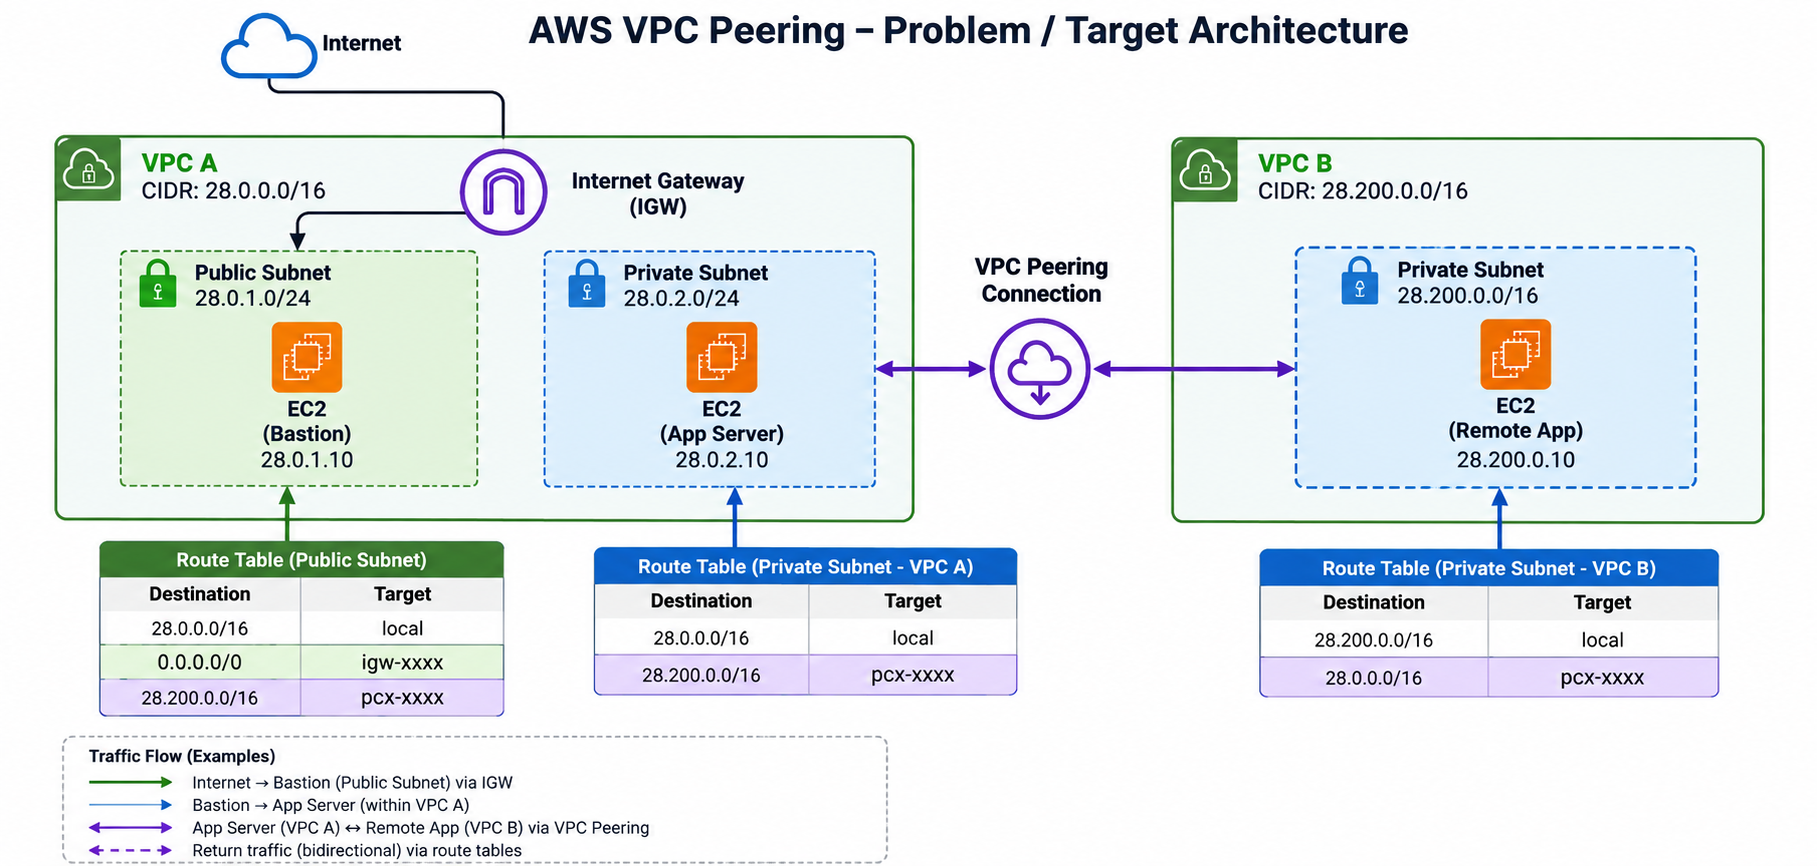
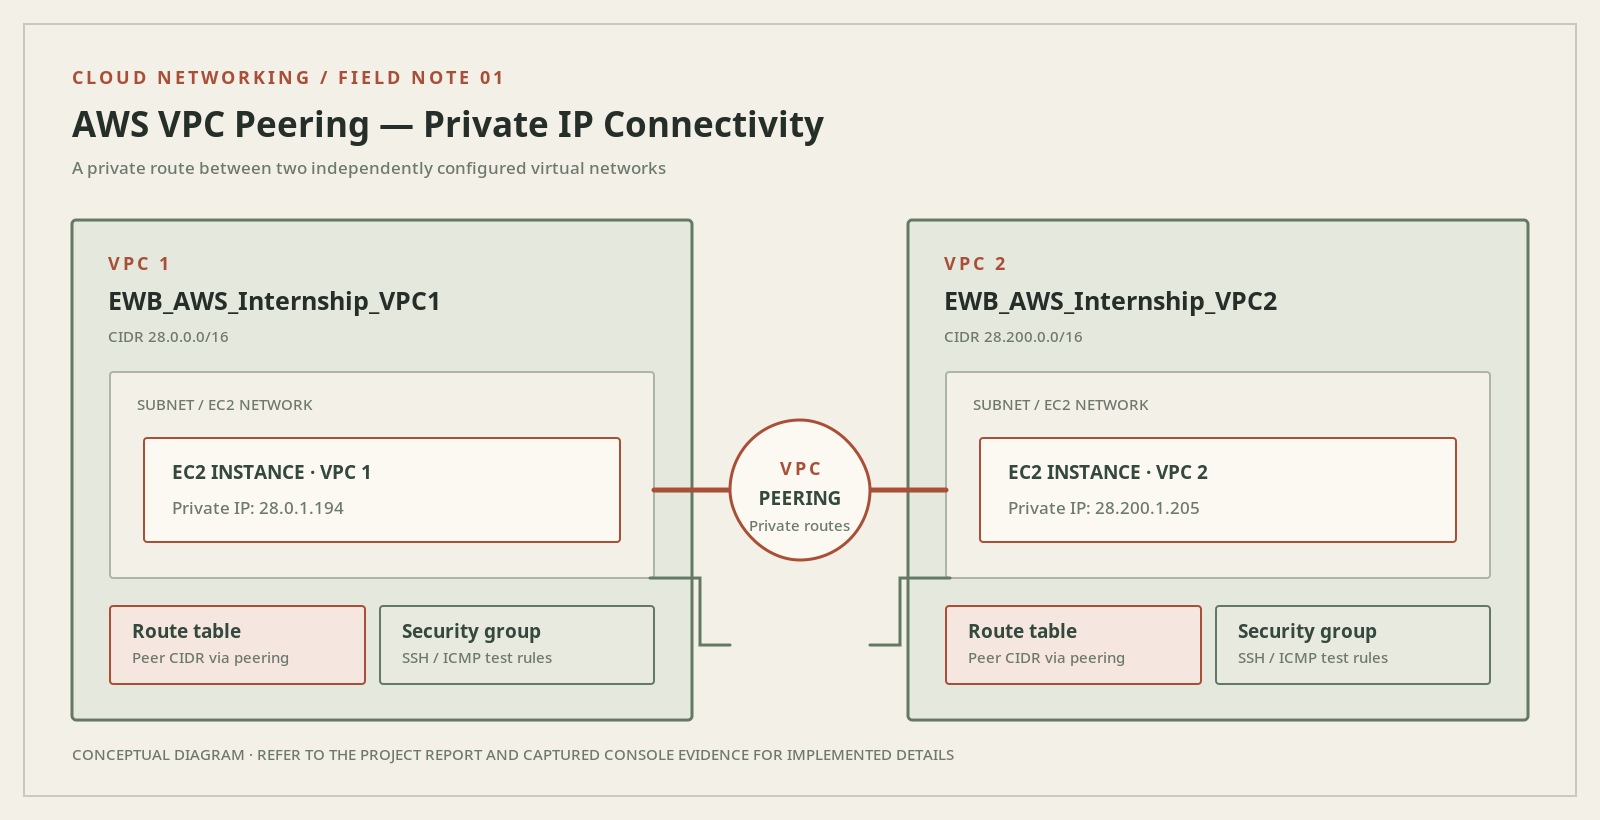
Update portfolio assets, certificates and project screenshots-1

diff --git a/assets/aws-vpc-peering-project-notes.html b/assets/aws-vpc-peering-project-notes.html
@@ -7,7 +7,7 @@
 :root{--bg:#07101d;--panel:#0b1728;--text:#f4f7ff;--muted:#a8b6cd;--line:rgba(186,207,255,.16);--cyan:#35d8ff;--violet:#9a72ff;--pink:#f26bd6}*{box-sizing:border-box}body{margin:0;background:radial-gradient(ellipse at 5% 10%,rgba(44,153,255,.14),transparent 29%),radial-gradient(ellipse at 92% 16%,rgba(153,88,255,.13),transparent 27%),var(--bg);color:var(--text);font-family:Manrope,system-ui,sans-serif;line-height:1.65}.wrap{width:min(92%,1040px);margin:auto;padding:48px 0}.mono{font:500 .72rem 'DM Mono',monospace;letter-spacing:.12em;text-transform:uppercase;color:var(--cyan)}h1{font-size:clamp(2rem,5vw,3.7rem);line-height:1.08;letter-spacing:-.06em;margin:12px 0;background:linear-gradient(100deg,#f4f7ff,#72cfff,#a78bfa,#f26bd6);color:transparent;background-clip:text}h2{font-size:1.25rem;margin:26px 0 8px}p,li{color:#c2cde0;font-size:.94rem}.panel{padding:24px;margin:18px 0;border:1px solid var(--line);border-radius:16px;background:linear-gradient(150deg,rgba(13,29,50,.98),rgba(8,17,31,.98))}.actions{display:flex;gap:10px;flex-wrap:wrap;margin:20px 0 28px}.btn{display:inline-flex;padding:10px 14px;border:1px solid var(--line);border-radius:10px;color:var(--cyan);font-size:.8rem;font-weight:700}.btn:hover{border-color:var(--cyan);background:#35d8ff0d}code{color:#a6eaff}a{color:var(--cyan);text-decoration:none}li{margin:5px 0}.muted{color:var(--muted);font-size:.82rem}
 </style></head><body><main class="wrap"><div class="mono">AWS Cloud · Project document</div><h1>AWS VPC Peering &amp; Private Connectivity</h1><p>A hands-on cloud networking project demonstrating private communication between EC2 instances in two separate Amazon VPCs.</p><div class="actions"><a class="btn" href="../index.html#aws-vpc-peering">← Back to project</a><a class="btn" href="../index.html#aws">← Back to AWS Labs</a><a class="btn" href="../index.html#home">← Back to Portfolio</a></div>
 <section class="panel"><div class="mono">Project files</div><p>The image below is the supplied problem/target architecture, not an exact diagram of the lab that was implemented.</p><figure><a href="aws-vpc-peering-target-architecture.png" rel="noopener noreferrer"><img src="aws-vpc-peering-target-architecture.png" alt="AWS VPC Peering problem/target architecture diagram" style="display:block;width:100%;height:auto;border:1px solid var(--line);border-radius:12px;background:#fff" loading="lazy"></a></figure><div class="actions"><a class="btn" href="aws-vpc-peering-project-report.pdf" rel="noopener noreferrer">View Project Report ↗</a><a class="btn" href="aws-vpc-peering-target-architecture.png" rel="noopener noreferrer">View full architecture ↗</a><a class="btn" href="https://github.com/sivakumar9867/EWB-AWS-Internship" rel="noopener noreferrer">Project repository ↗</a></div></section>
-<section class="panel"><div class="mono">01 / Problem statement</div><p>Resources in separate VPCs are isolated by default. The objective was to configure VPC peering, route traffic between the two VPC CIDR blocks, apply appropriate security rules, and verify private-IP communication between EC2 instances.</p><h2>Internship context</h2><p><strong>EWB Edutech Private Limited · AWS Cloud Computing Internship</strong><br>Duration: 1 month · September–October 2026 · Remote</p></section>
+<section class="panel"><div class="mono">01 / Problem statement</div><p>Resources in separate VPCs are isolated by default. The objective was to configure VPC peering, route traffic between the two VPC CIDR blocks, apply appropriate security rules, and verify private-IP communication between EC2 instances.</p><h2>Internship context</h2><p><strong>EWB Edutech Private Limited · AWS Internship</strong><br>Duration: 1 month · September–October 2026 · Remote</p></section>
 <section class="panel"><div class="mono">02 / Environment</div><ul><li>Region: US East (Ohio), <code>us-east-2</code></li><li>VPC 1: <code>EWB_AWS_Internship_VPC1</code> — <code>28.0.0.0/16</code></li><li>VPC 2: <code>EWB_AWS_Internship_VPC2</code> — <code>28.200.0.0/16</code></li><li>Peering connection: <code>EWB_VPC_Peering</code>, shown as Active in supplied evidence</li><li>VPC 1 EC2 instance had a public IPv4 address during testing; VPC 2 EC2 instance had no public IPv4 address.</li><li>VPC 2 subnet: <strong>Name not verified from available evidence.</strong></li><li>The lab CIDRs <code>28.0.0.0/16</code> and <code>28.200.0.0/16</code> are not RFC 1918 private IPv4 ranges and should not be copied into a production design without review.</li></ul></section>
 <section class="panel"><div class="mono">03 / Implementation</div><ol><li>Created and inspected the VPC peering connection.</li><li>Configured route tables to send peer-CIDR traffic through the peering connection.</li><li>Configured SSH and ICMP security-group rules for connectivity testing.</li><li>Used SSH/proxy access and ping tests to validate reachability between private IPs.</li><li>Recorded a controlled ICMP failure, recovery test, and cleanup evidence.</li></ol></section>
 <section class="panel"><div class="mono">04 / Results &amp; learning</div><p>The supplied terminal screenshots show successful forward and reverse ping sessions with four packets received and 0% packet loss. Separate screenshots document a controlled failure and subsequent recovery. These observations describe the captured test sessions, not the current state of AWS resources.</p><h2>Limitations</h2><p>This was a learning environment rather than a production design. A production implementation would require security review, least-privilege access, monitoring, and validation of every route and subnet association.</p></section>
